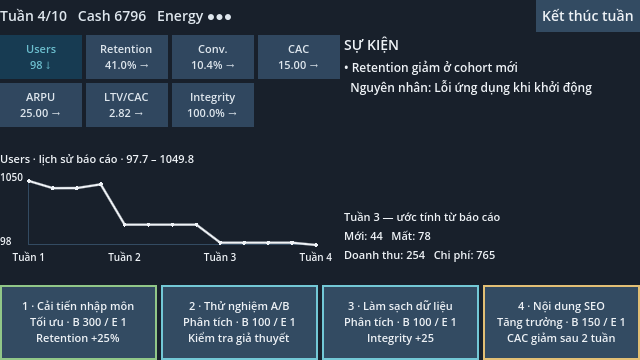
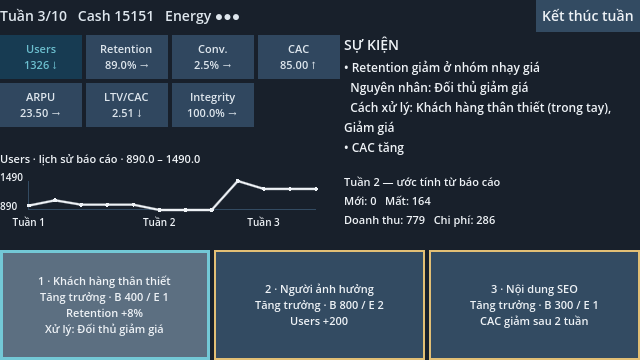
T-014: thay anh gameplay landing page bang anh tu ban moi

diff --git a/media-marketing/web/index.html b/media-marketing/web/index.html
@@ -38,7 +38,7 @@
     <section id="gameplay">
       <h2>Gameplay</h2>
       <figure>
-        <img src="assets/gameplay-dashboard.png" alt="Dashboard tuần 4/10, sự kiện có nguyên nhân đã lộ và biểu đồ Users.">
+        <img src="assets/gameplay-dashboard.png" alt="Dashboard tuần 3/10: sự kiện Retention giảm đã lộ nguyên nhân (đối thủ giảm giá) kèm thẻ xử lý được gợi ý, một sự kiện khác (CAC tăng) chưa lộ nguyên nhân, và biểu đồ Users.">
         <figcaption>Ảnh chụp từ bản demo đang phát triển</figcaption>
       </figure>
     </section>
